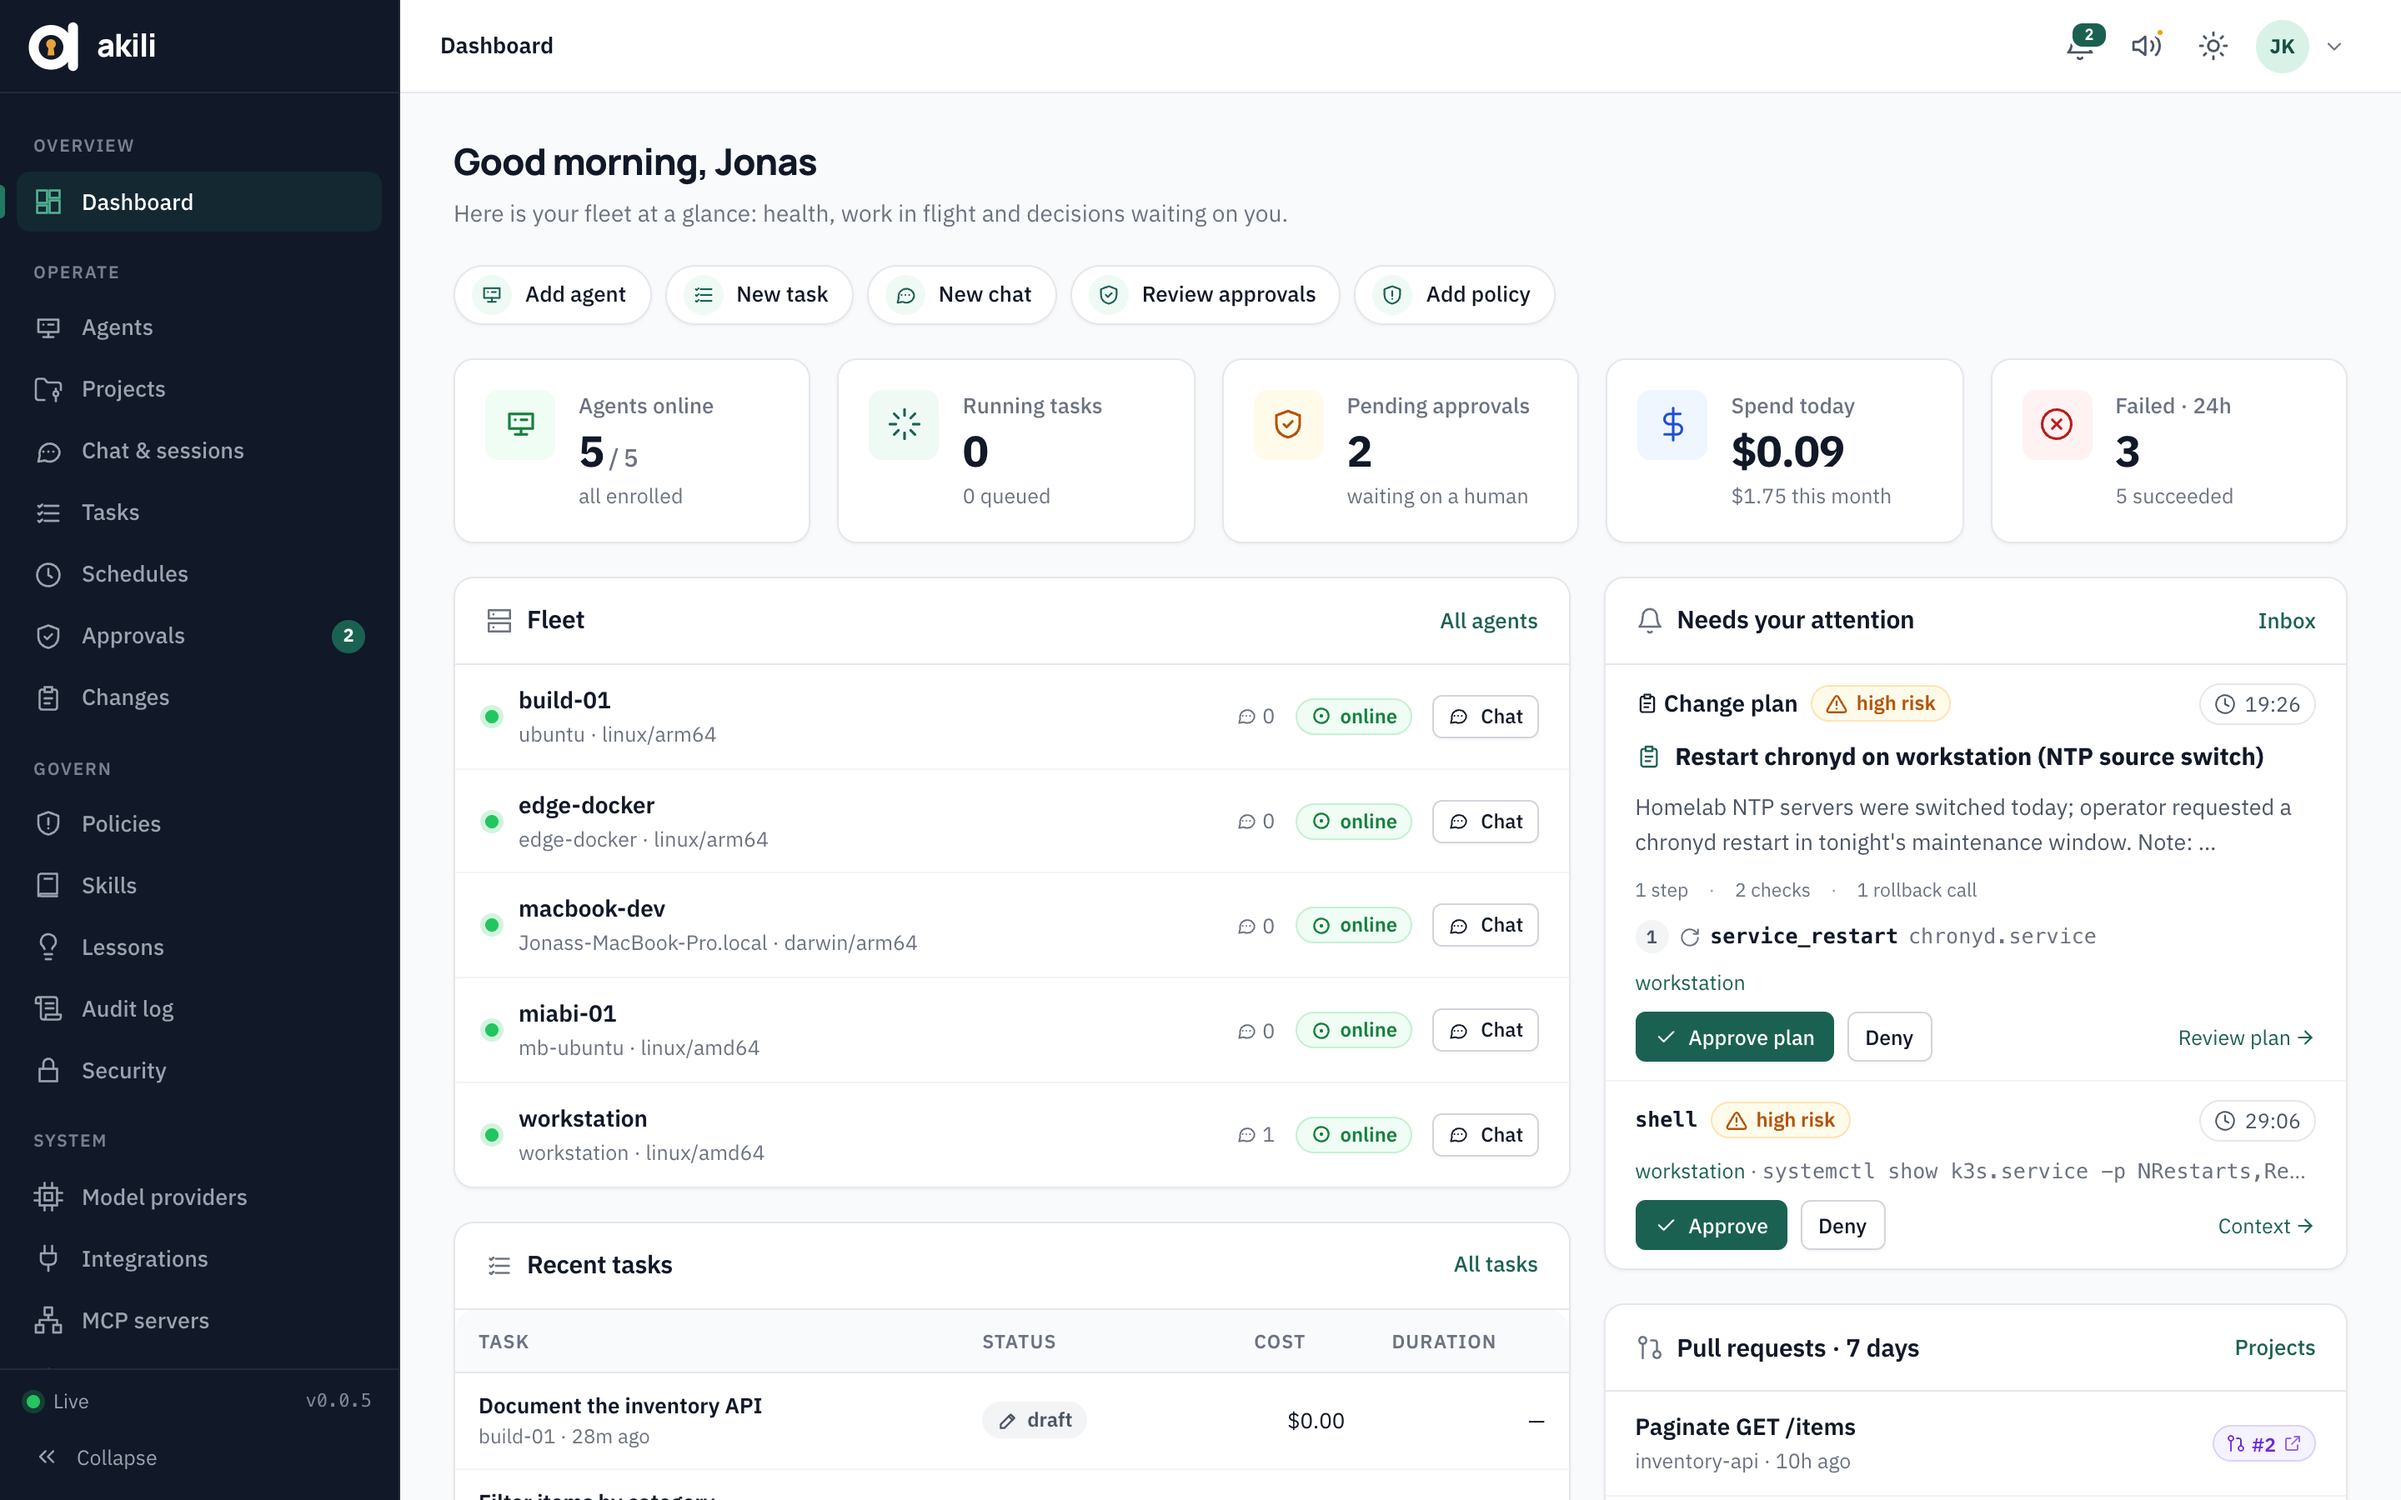
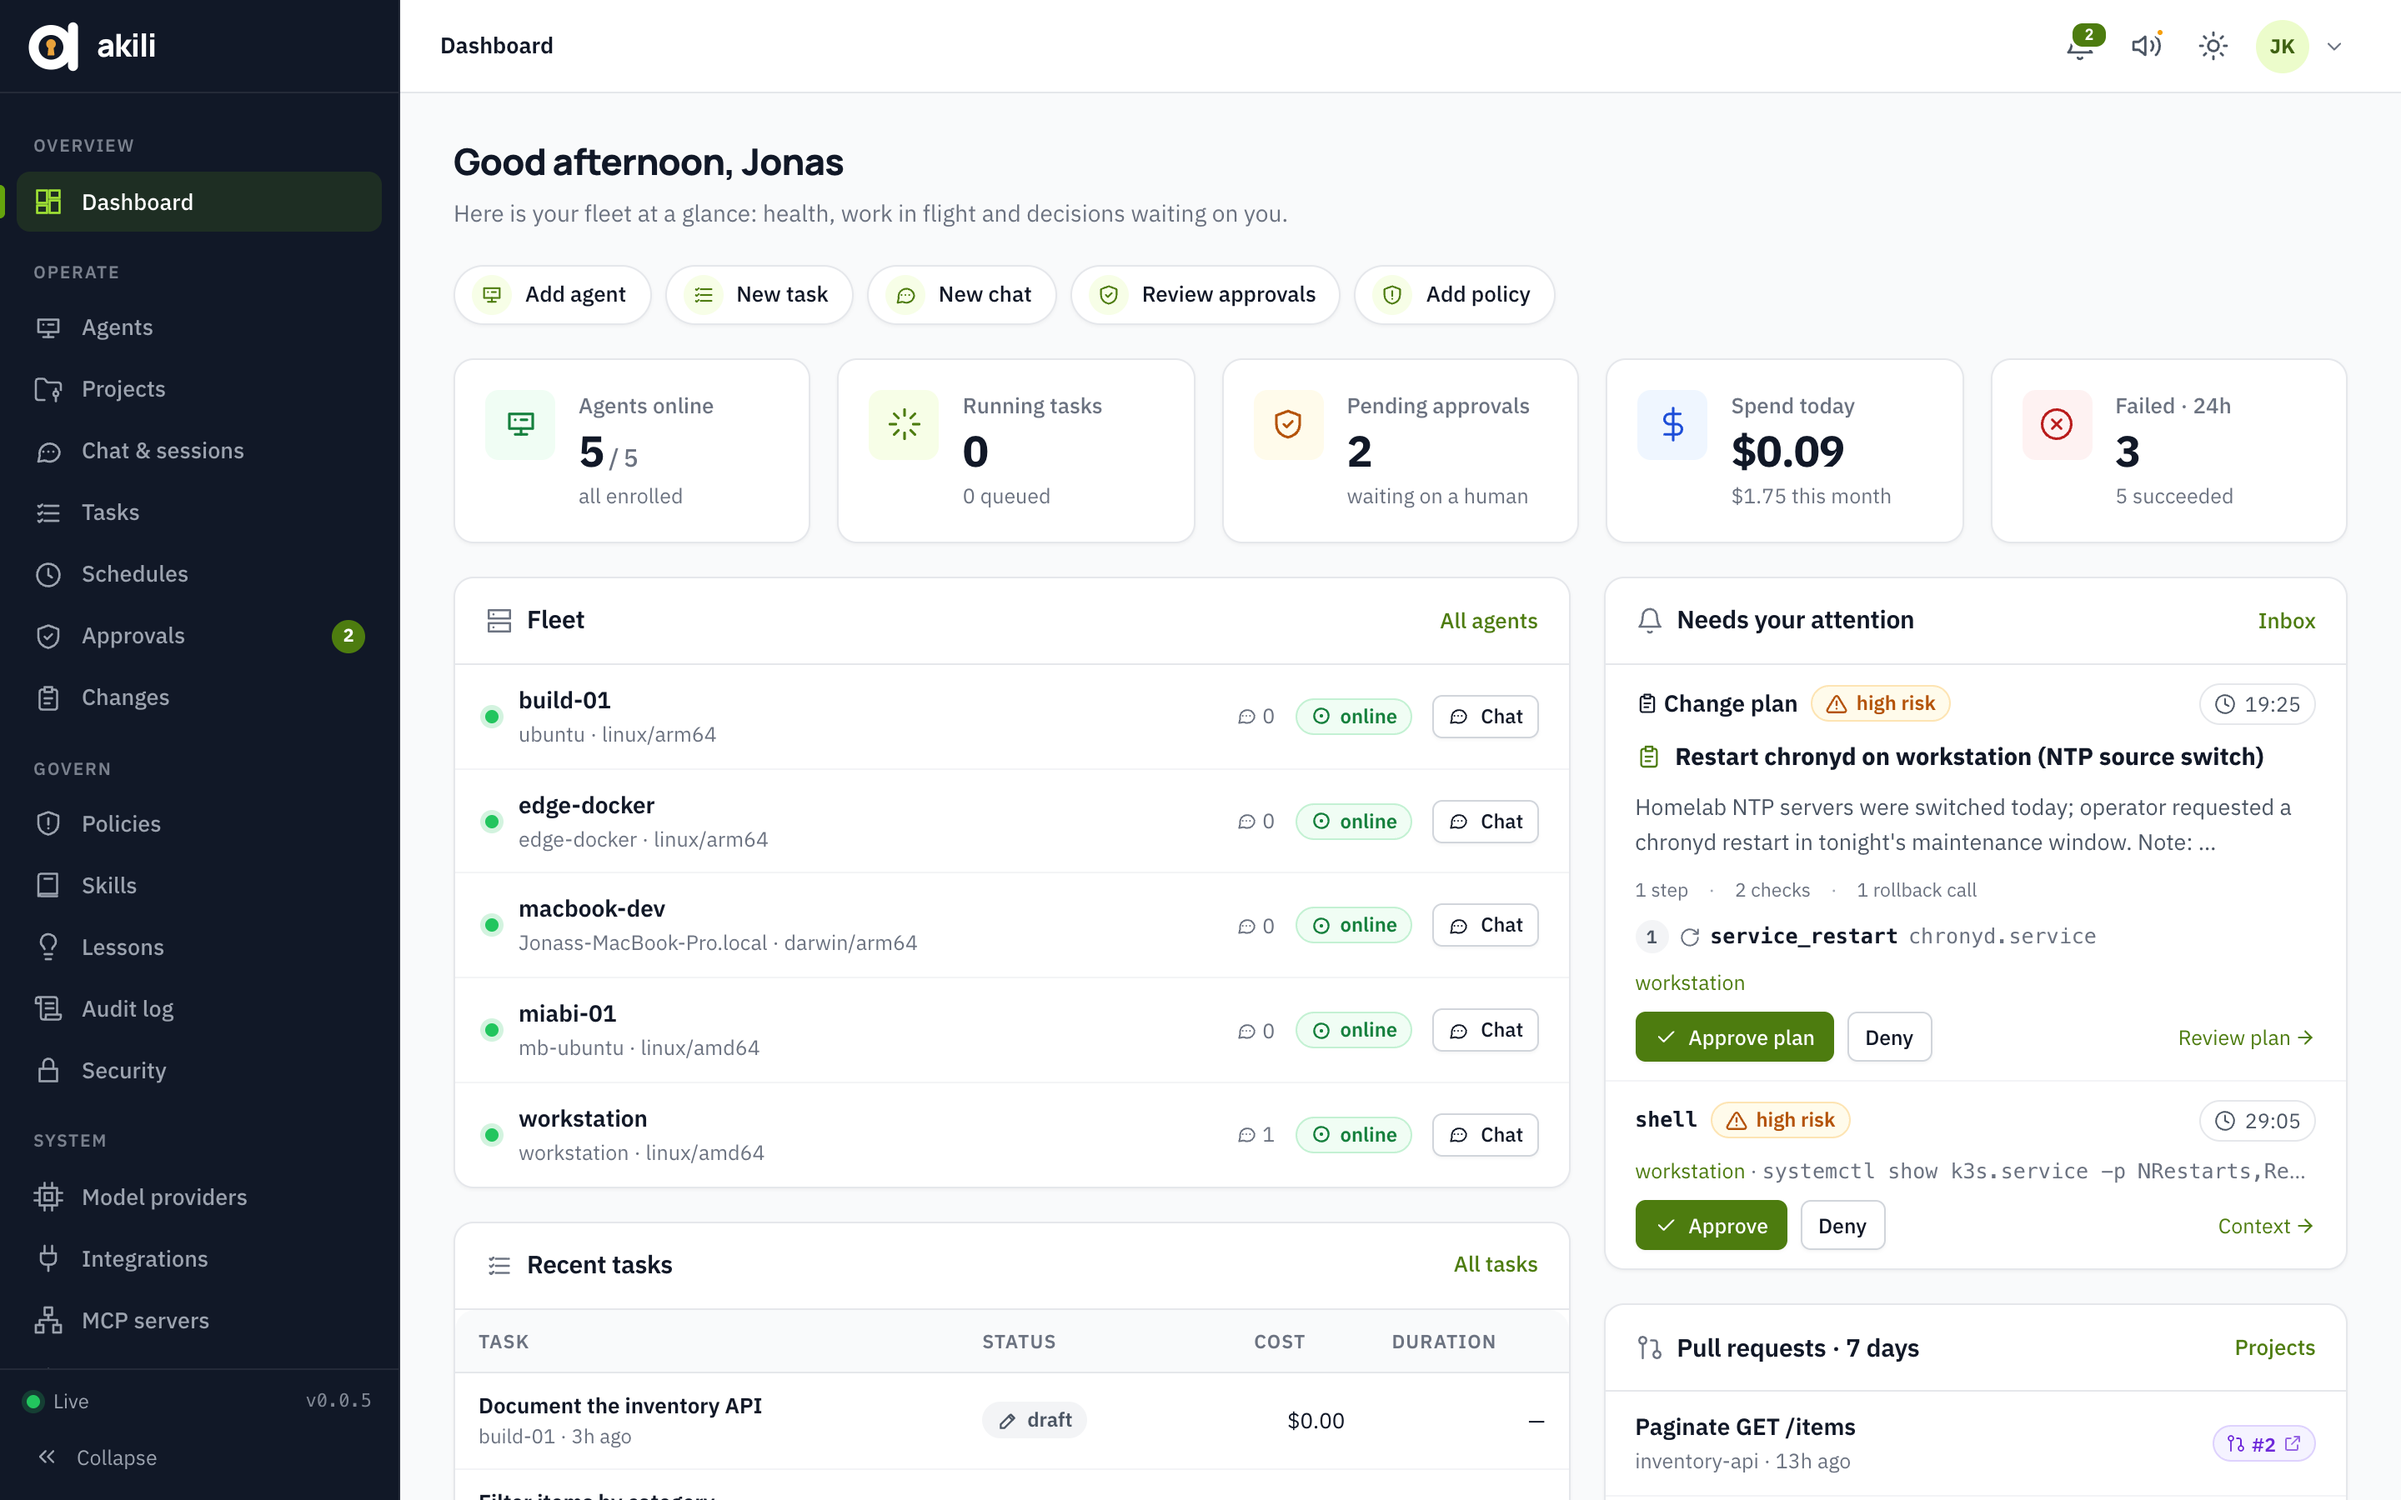
feat(web): use Lime as the primary colour

diff --git a/web/src/styles.css b/web/src/styles.css
@@ -1,18 +1,18 @@
-/* Akili console. Miabi design tokens with the brand's forest green as primary; light / dark via
+/* Akili console. Miabi design tokens with Miabi's Lime accent as primary; light / dark via
    [data-theme] on <html>. */
 
 :root {
-  /* primary: forest, ending at the logo's #0F2A24 (500+ dark enough that white text on 500/600 reads) */
-  --primary-50: #effaf5;
-  --primary-100: #d9f2e7;
-  --primary-200: #b5e4d2;
-  --primary-300: #84cfb6;
-  --primary-400: #51b395;
-  --primary-500: #207a63;
-  --primary-600: #1b6152;
-  --primary-700: #184e43;
-  --primary-800: #15403a;
-  --primary-900: #0f2a24;
+  /* primary: Miabi Lime, 500+ one step darker than Tailwind so white text on 600 reads */
+  --primary-50: #f7fee7;
+  --primary-100: #ecfccb;
+  --primary-200: #d9f99d;
+  --primary-300: #bef264;
+  --primary-400: #a3e635;
+  --primary-500: #65a30d;
+  --primary-600: #4d7c0f;
+  --primary-700: #3f6212;
+  --primary-800: #365314;
+  --primary-900: #1a2e05;
 
   --success-50: #f0fdf4;
   --success-500: #22c55e;
@@ -89,7 +89,7 @@
 }
 
 [data-theme='dark'] {
-  --primary-50: #10302a;
+  --primary-50: #17250a;
   --success-50: #0d2818;
   --warning-50: #2d1f0a;
   --danger-50: #2d0f0f;

diff --git a/web/src/lib/xterm.ts b/web/src/lib/xterm.ts
@@ -34,9 +34,9 @@ const DARK: ITheme = {
 const LIGHT: ITheme = {
   background: '#ffffff',
   foreground: '#111827',
-  cursor: '#1b6152',
+  cursor: '#4d7c0f',
   cursorAccent: '#ffffff',
-  selectionBackground: 'rgba(32, 122, 99, 0.22)',
+  selectionBackground: 'rgba(101, 163, 13, 0.22)',
   black: '#111827',
   red: '#b91c1c',
   green: '#15803d',

diff --git a/web/src/components/ProjectPlansTab.vue b/web/src/components/ProjectPlansTab.vue
@@ -524,6 +524,7 @@ async function remove() {
 }
 .plan-check {
   margin-top: 3px;
+  accent-color: var(--primary-600);
 }
 .plan-phase-body {
   flex: 1;

diff --git a/server/internal/notify/mail.go b/server/internal/notify/mail.go
@@ -267,7 +267,7 @@ var htmlTmpl = template.Must(template.New("mail").Parse(`<!doctype html>
 <table role="presentation" style="border-collapse:collapse;font-size:14px;margin-bottom:20px">
 {{range .Rows}}<tr><td style="padding:4px 16px 4px 0;color:#71717a">{{index . 0}}</td><td style="padding:4px 0">{{index . 1}}</td></tr>
 {{end}}</table>
-<a href="{{.URL}}" style="display:inline-block;background:#c2410c;color:#fff;text-decoration:none;padding:9px 16px;border-radius:6px;font-size:14px">{{.Action}}</a>
+<a href="{{.URL}}" style="display:inline-block;background:#4d7c0f;color:#fff;text-decoration:none;padding:9px 16px;border-radius:6px;font-size:14px">{{.Action}}</a>
 <p style="margin:20px 0 0;font-size:12px;color:#71717a">Details stay in Akili; open the link to see them. Change which email you get in your notification settings.</p>
 </td></tr></table>
 </body></html>`))
